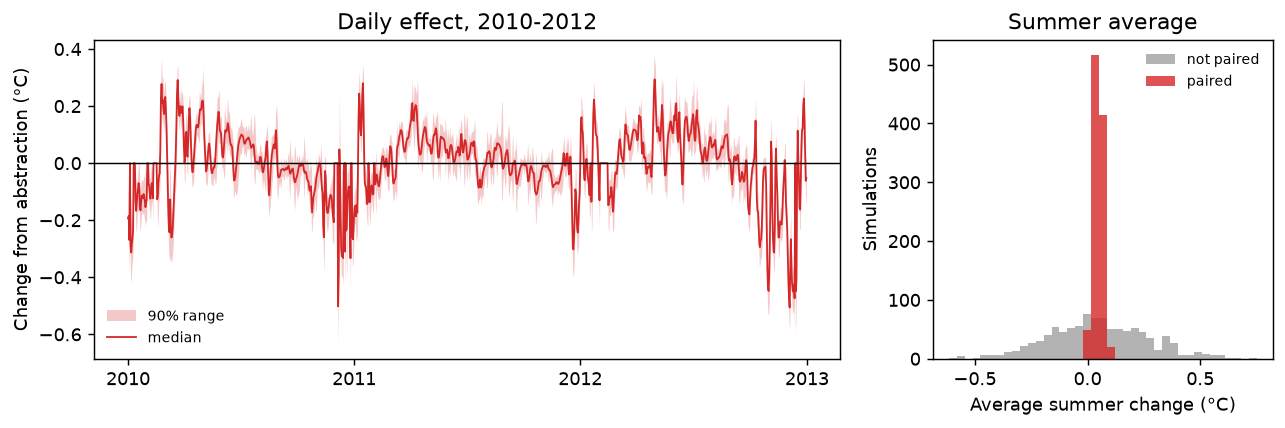
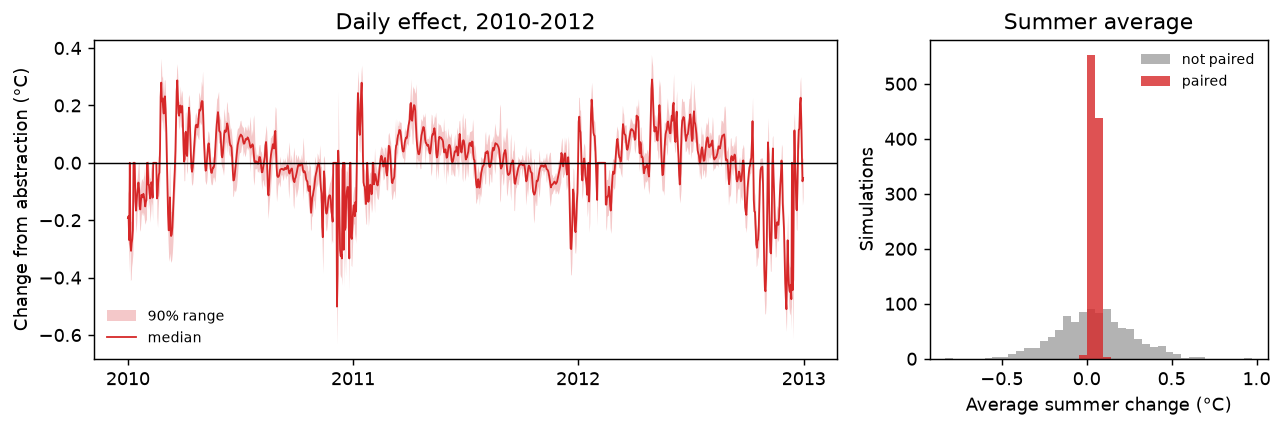
Example 04 rerun with the DE fix: summer change +0.04 C (was +0.05), ranges updated
Claude-Session: https://claude.ai/code/session_01JyYTyNnMKAUkaRFLKK2LWV

diff --git a/examples/04_scenario/README.md b/examples/04_scenario/README.md
@@ -62,11 +62,11 @@ diff = scenario.paired_difference_from_files(
 
 | | Median | 90% range |
 |---|---|---|
-| Average summer (Jun–Aug) change | +0.05 °C | +0.02 to +0.08 °C |
-| Average winter (Dec–Feb) change | −0.07 °C | −0.11 to −0.03 °C |
-| Largest warming on a single day | +0.32 °C | +0.27 to +0.40 °C |
+| Average summer (Jun–Aug) change | +0.04 °C | +0.02 to +0.08 °C |
+| Average winter (Dec–Feb) change | −0.07 °C | −0.12 to −0.03 °C |
+| Largest warming on a single day | +0.33 °C | +0.27 to +0.39 °C |
 | Extra days per year above 18 °C | 1.0 | 0.0 to 2.0 |
-| *Summer change if the runs were not paired* | *+0.04 °C* | *−0.31 to +0.40 °C* |
+| *Summer change if the runs were not paired* | *+0.05 °C* | *−0.32 to +0.43 °C* |
 
 ![Daily effect of the abstraction and the summer average](figures/abstraction_effect.png)
 
